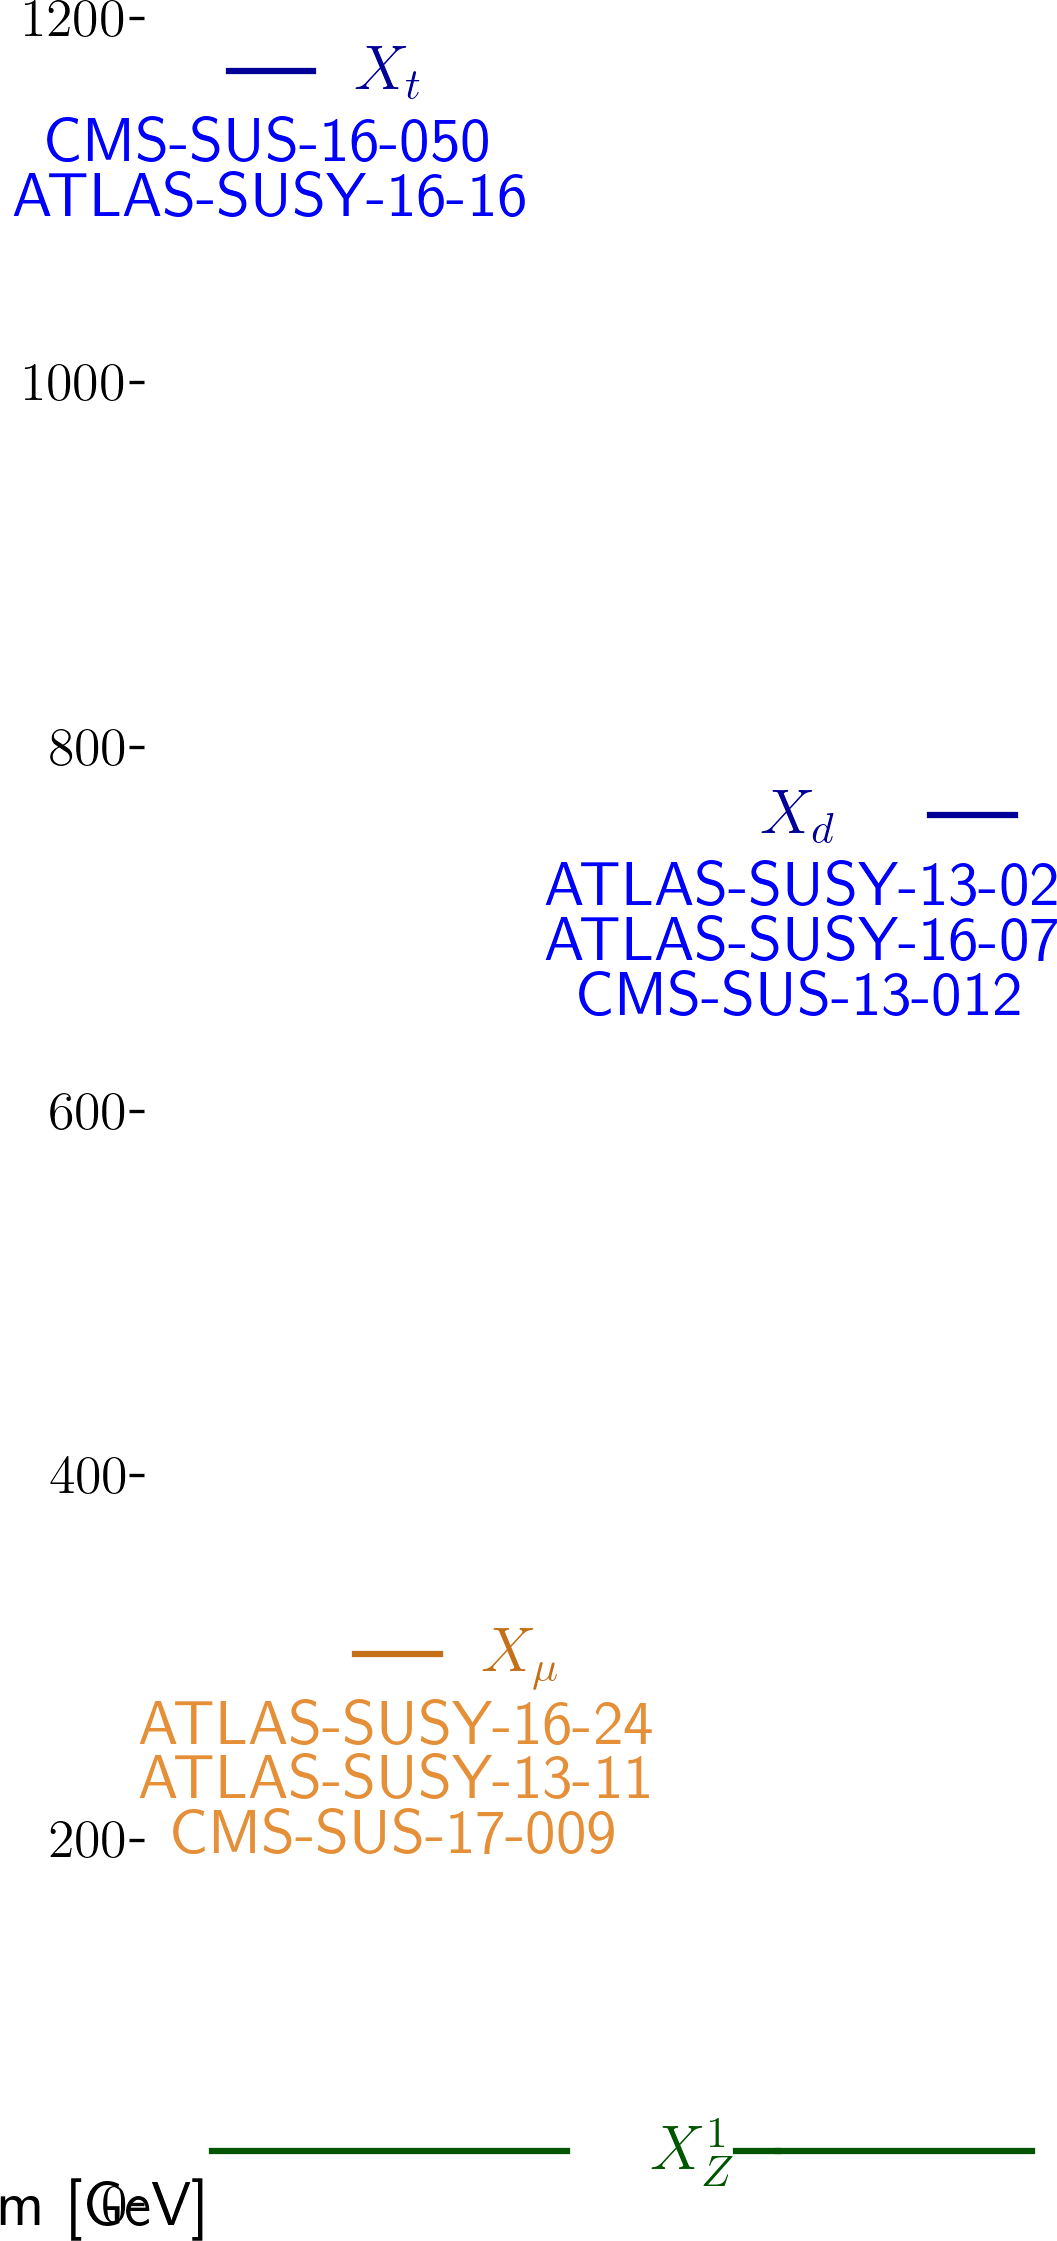
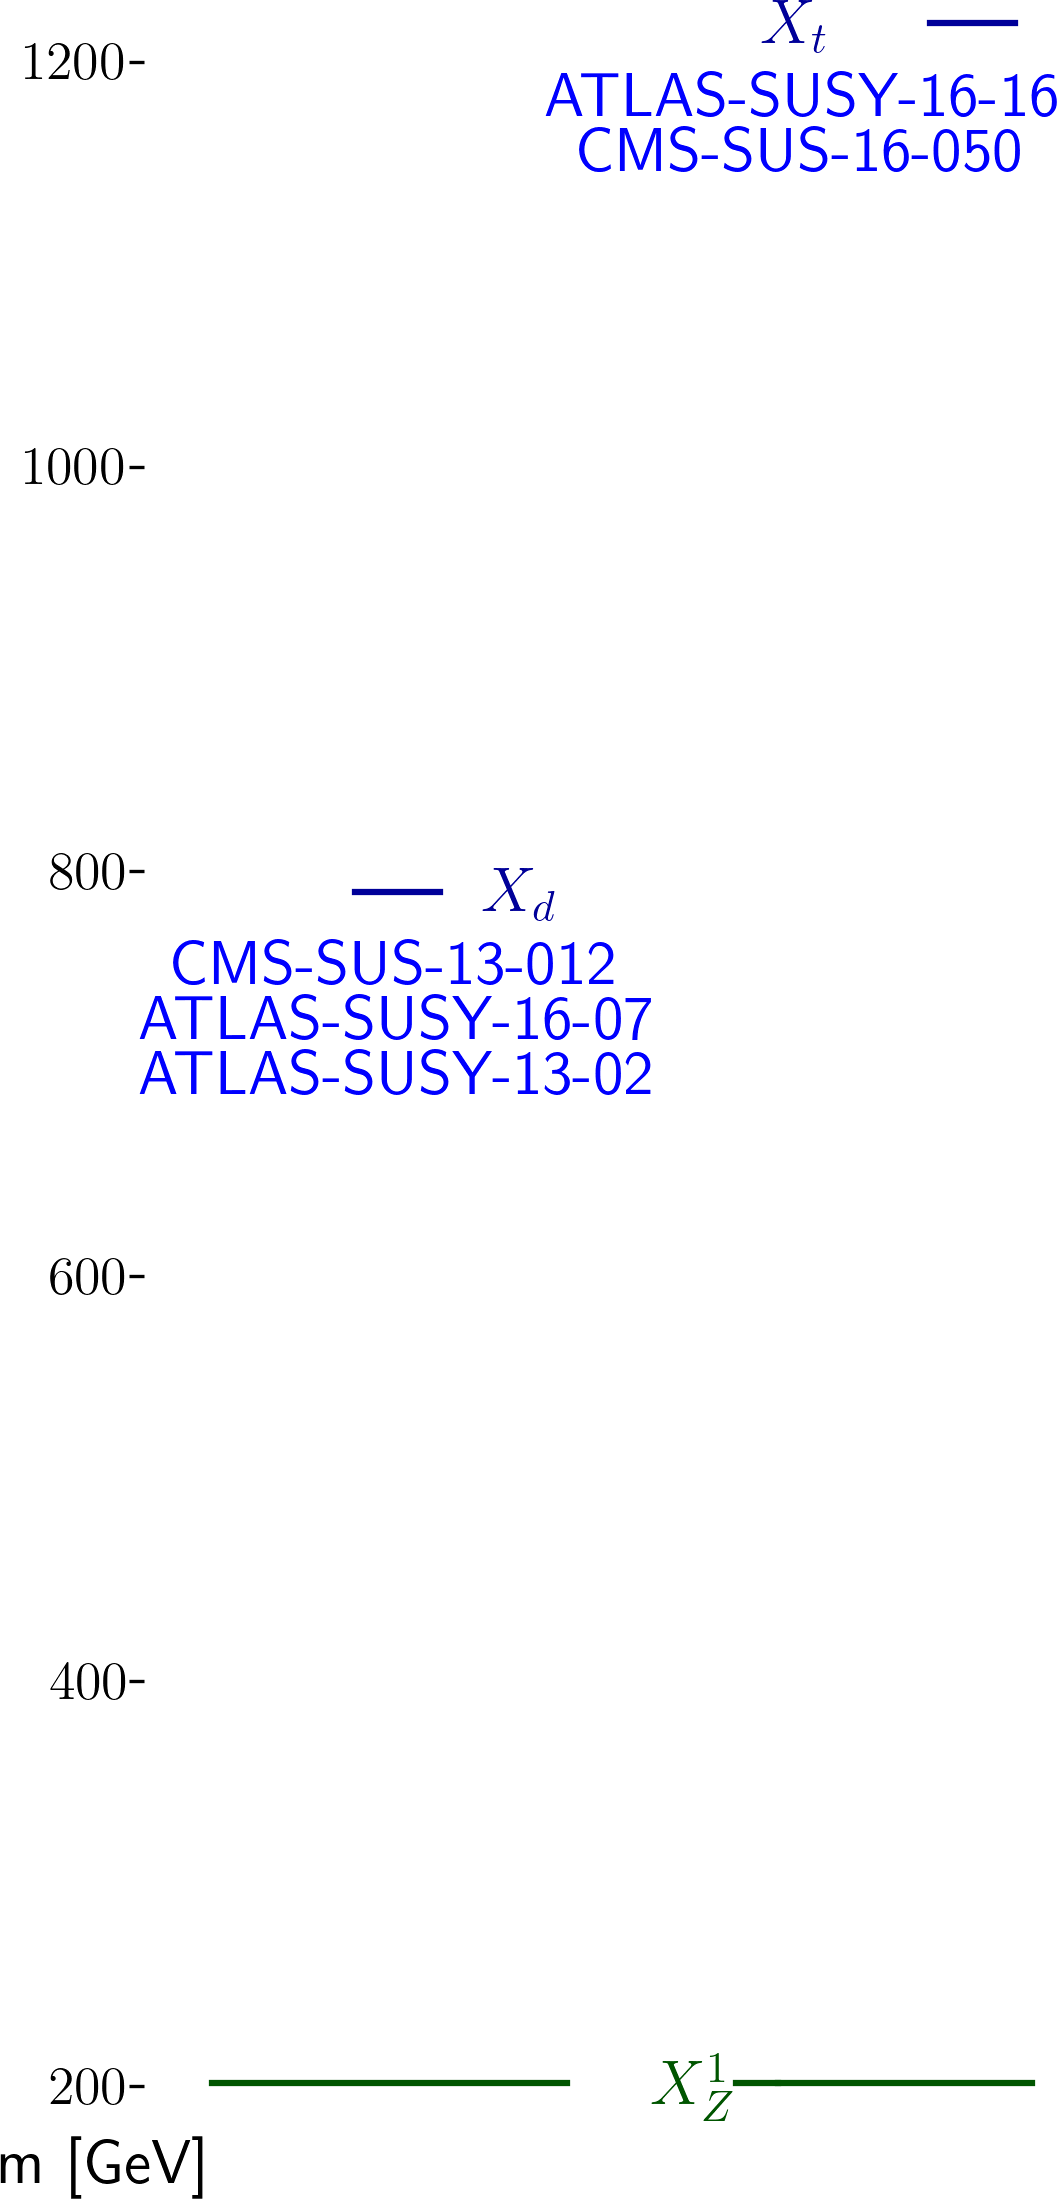
automated update by plotHiscore.py to /scratch-cbe/users/wolfgan.waltenberger/git/smodels.github.io/protomodels/2020_PioneerStudy/real5/

diff --git a/protomodels/2020_PioneerStudy/real5/index.html b/protomodels/2020_PioneerStudy/real5/index.html
@@ -1,33 +1,30 @@
 <html>
 <body>
 <center>
-<table><td><h1>Current best protomodel: K=6.76</h1><td><img height=60px src=https://smodels.github.io/pics/banner.png></table>
+<table><td><h1>Current best protomodel: K=7.26</h1><td><img height=60px src=https://smodels.github.io/pics/banner.png></table>
 </center>
-<b><a href=./hiscore.slha>ProtoModel</a> <a href=./pmodel.py>(dict)</a> produced with <a href=https://smodels.github.io/docs/Validation124>database v1.2.4</a>, combination strategy <a href=./matrix_aggressive.png>aggressive</a> in walker 10 step 322.</b> K plots for: <a href=./M1000022.png?13243724>X<sub>Z</sub><sup>1</sup></a>, <a href=./M1000006.png?13243724>X<sub>t</sub></a>, <a href=./M1000001.png?13243724>X<sub>d</sub></a>, <a href=./M1000013.png?13243724>X<sub>&mu;</sub></a>. HPD plots for: <a href=./llhd1000006.png?13243724>X<sub>t</sub></a>, <a href=./llhd1000001.png?13243724>X<sub>d</sub></a>, <a href=./llhd1000013.png?13243724>X<sub>&mu;</sub></a>. SSM plots for: <a href=./ssm_-1000006_1000006.png?13243724>(x&#772;<sub>t</sub>,X<sub>t</sub>)</a><br>
+<b><a href=./hiscore.slha>ProtoModel</a> <a href=./pmodel.py>(dict)</a> produced with <a href=https://smodels.github.io/docs/Validation124>database v1.2.4</a>, combination strategy <a href=./matrix_aggressive.png>aggressive</a> in walker 45 step 195.</b> K plots for: <a href=./M1000022.png?13647993>X<sub>Z</sub><sup>1</sup></a>, <a href=./M1000006.png?13647993>X<sub>t</sub></a>, <a href=./M1000001.png?13647993>X<sub>d</sub></a>. HPD plots for: <a href=./llhd1000006.png?13647993>X<sub>t</sub></a>, <a href=./llhd1000001.png?13647993>X<sub>d</sub></a>. SSM plots for: <a href=./ssm_-1000006_1000006.png?13647993>(x&#772;<sub>t</sub>,X<sub>t</sub>)</a><br>
 <table width=80%>
 <tr><td>
-<br><b>32 predictions available. Highest r values are:</b><br><ul>
-<li><a href=http://cms-results.web.cern.ch/cms-results/public-results/publications/SUS-19-006/index.html>CMS-SUS-19-006</a>:T2 r=1.30, r<sub>exp</sub>=1.11<br>
-<li><a href=http://cms-results.web.cern.ch/cms-results/public-results/publications/SUS-16-033/index.html>CMS-SUS-16-033</a>:T2 r=1.13, r<sub>exp</sub>=0.82<br>
-<li><a href=https://atlas.web.cern.ch/Atlas/GROUPS/PHYSICS/PAPERS/SUSY-2016-24/>ATLAS-SUSY-2016-24</a>:TSlepSlep r=1.02, r<sub>exp</sub>=N/A<br>
-<li><a href=http://cms-results.web.cern.ch/cms-results/public-results/publications/SUS-19-006/index.html>CMS-SUS-19-006</a>:T2tt r=0.94, r<sub>exp</sub>=0.93<br>
-<li><a href=http://cms-results.web.cern.ch/cms-results/public-results/publications/SUS-16-036/index.html>CMS-SUS-16-036</a>:T2 r=0.86, r<sub>exp</sub>=0.75<br>
+<br><b>18 predictions available. Highest r values are:</b><br><ul>
+<li><a href=http://cms-results.web.cern.ch/cms-results/public-results/publications/SUS-19-006/index.html>CMS-SUS-19-006</a>:T2 r=1.30, r<sub>exp</sub>=1.12<br>
+<li><a href=http://cms-results.web.cern.ch/cms-results/public-results/publications/SUS-19-006/index.html>CMS-SUS-19-006</a>:T2tt r=1.29, r<sub>exp</sub>=1.29<br>
+<li><a href=http://cms-results.web.cern.ch/cms-results/public-results/publications/SUS-16-033/index.html>CMS-SUS-16-033</a>:T2 r=1.16, r<sub>exp</sub>=0.83<br>
+<li><a href=http://cms-results.web.cern.ch/cms-results/public-results/publications/SUS-16-036/index.html>CMS-SUS-16-036</a>:T2 r=0.83, r<sub>exp</sub>=0.75<br>
+<li><a href=https://atlas.web.cern.ch/Atlas/GROUPS/PHYSICS/PAPERS/SUSY-2016-15/>ATLAS-SUSY-2016-15</a>:T2tt r=0.63, r<sub>exp</sub>=N/A<br>
 </ul>
 <td><br><b>K values without analyses: (contribution)</b><br>
 <ul>
-<li> <a href=https://atlas.web.cern.ch/Atlas/GROUPS/PHYSICS/PAPERS/SUSY-2013-11/>ATLAS-SUSY-2013-11</a>: 2.64 (10%)
-<li> <a href=http://cms-results.web.cern.ch/cms-results/public-results/publications/SUS-16-050/index.html>CMS-SUS-16-050</a>: 2.64 (10%)
-<li> <a href=https://cms-results.web.cern.ch/cms-results/public-results/publications/SUS-17-009/>CMS-SUS-17-009</a>: 2.64 (10%)
-<li> <a href=https://twiki.cern.ch/twiki/bin/view/CMSPublic/PhysicsResultsSUS13012>CMS-SUS-13-012</a>: 2.64 (10%)
-<li> <a href=https://atlas.web.cern.ch/Atlas/GROUPS/PHYSICS/PAPERS/SUSY-2013-02/>ATLAS-SUSY-2013-02</a>: 2.56 (10%)
-<li> <a href=https://atlas.web.cern.ch/Atlas/GROUPS/PHYSICS/PAPERS/SUSY-2016-24/>ATLAS-SUSY-2016-24</a>: 2.07 (12%)
-<li> <a href=https://atlas.web.cern.ch/Atlas/GROUPS/PHYSICS/PAPERS/SUSY-2016-16/>ATLAS-SUSY-2016-16</a>: 0.00 (17%)
-<li> <a href=https://atlas.web.cern.ch/Atlas/GROUPS/PHYSICS/PAPERS/SUSY-2016-07/>ATLAS-SUSY-2016-07</a>: -1.89 (21%)
-<td><img width=600px src=./texdoc.png?1606243724>
-<br><font size=-1>Last updated: Tue Nov 24 19:48:44 2020</font>
+<li> <a href=http://cms-results.web.cern.ch/cms-results/public-results/publications/SUS-16-050/index.html>CMS-SUS-16-050</a>: 3.33 (15%)
+<li> <a href=https://twiki.cern.ch/twiki/bin/view/CMSPublic/PhysicsResultsSUS13012>CMS-SUS-13-012</a>: 3.33 (15%)
+<li> <a href=https://atlas.web.cern.ch/Atlas/GROUPS/PHYSICS/PAPERS/SUSY-2013-02/>ATLAS-SUSY-2013-02</a>: 3.26 (15%)
+<li> <a href=https://atlas.web.cern.ch/Atlas/GROUPS/PHYSICS/PAPERS/SUSY-2016-16/>ATLAS-SUSY-2016-16</a>: 1.25 (23%)
+<li> <a href=https://atlas.web.cern.ch/Atlas/GROUPS/PHYSICS/PAPERS/SUSY-2016-07/>ATLAS-SUSY-2016-07</a>: -0.76 (31%)
+<td><img width=600px src=./texdoc.png?1606647993>
+<br><font size=-1>Last updated: Sun Nov 29 12:06:33 2020</font>
 </table><table style="width:80%">
-<td width=45%><img height=580px src=./ruler.png?1606243724><td width=55%><img height=380px src=./decays.png?1606243724>
-<font size=-3><iframe type="text/html" height="220px" width="100%s" frameborder="0" src="./rawnumbers.html?1606243724"></iframe></font>
+<td width=45%><img height=580px src=./ruler.png?1606647993><td width=55%><img height=380px src=./decays.png?1606647993>
+<font size=-3><iframe type="text/html" height="220px" width="100%s" frameborder="0" src="./rawnumbers.html?1606647993"></iframe></font>
 </table>
 </body>
 </html>

diff --git a/protomodels/2020_PioneerStudy/real5/rawnumbers.html b/protomodels/2020_PioneerStudy/real5/rawnumbers.html
@@ -2,11 +2,8 @@
 <tr><th>Analysis Name</th><th>Type</th><th>Dataset</th><th>Topos</th><th>Observed</th><th>Expected</th><th>Approx &sigma;</th><th>Particles</th>
 </tr>
 <tr><td><a href=https://atlas.web.cern.ch/Atlas/GROUPS/PHYSICS/PAPERS/SUSY-2013-02/>ATLAS-SUSY-2013-02</a></td><td>em</td> <td>SR6jtp</td><td>T2</td><td>6</td><td>4.9 +/- 1.6</td><td style="text-align:right">0.4 &sigma;</td><td style="text-align:right">X<sub>d</sub></td></tr>
-<tr><td><a href=https://atlas.web.cern.ch/Atlas/GROUPS/PHYSICS/PAPERS/SUSY-2013-11/>ATLAS-SUSY-2013-11</a></td><td>em</td> <td>Zjets</td><td>TSlepSlep</td><td>1</td><td>1.4 +/- 0.6</td><td style="text-align:right">-0.3 &sigma;</td><td style="text-align:right">X<sub>&mu;</sub></td></tr>
 <tr><td><a href=https://atlas.web.cern.ch/Atlas/GROUPS/PHYSICS/PAPERS/SUSY-2016-07/>ATLAS-SUSY-2016-07</a></td><td>em</td> <td>2j_Meff_1200</td><td>T2</td><td>611</td><td>526 +/- 31</td><td style="text-align:right">2.2 &sigma;</td><td style="text-align:right">X<sub>d</sub></td></tr>
 <tr><td><a href=https://atlas.web.cern.ch/Atlas/GROUPS/PHYSICS/PAPERS/SUSY-2016-16/>ATLAS-SUSY-2016-16</a></td><td>em</td> <td>tN_high</td><td>T2tt</td><td>8</td><td>3.8 +/- 1</td><td style="text-align:right">1.9 &sigma;</td><td style="text-align:right">X<sub>t</sub></td></tr>
-<tr><td><a href=https://atlas.web.cern.ch/Atlas/GROUPS/PHYSICS/PAPERS/SUSY-2016-24/>ATLAS-SUSY-2016-24</a></td><td>em</td> <td>SR2-SF-loose</td><td>TSmuSmu</td><td>153</td><td>133 +/- 22</td><td style="text-align:right">0.8 &sigma;</td><td style="text-align:right">X<sub>&mu;</sub></td></tr>
-<tr><td><a href=https://twiki.cern.ch/twiki/bin/view/CMSPublic/PhysicsResultsSUS13012>CMS-SUS-13-012</a></td><td>ul</td> <td>-</td><td>T2</td><td> 22.9 fb </td><td> 14.0 fb</td><td style="text-align:right">1.2 &sigma;</td><td style="text-align:right">X<sub>d</sub></td></tr>
+<tr><td><a href=https://twiki.cern.ch/twiki/bin/view/CMSPublic/PhysicsResultsSUS13012>CMS-SUS-13-012</a></td><td>ul</td> <td>-</td><td>T2</td><td> 24.9 fb </td><td> 15.0 fb</td><td style="text-align:right">1.3 &sigma;</td><td style="text-align:right">X<sub>d</sub></td></tr>
 <tr><td><a href=http://cms-results.web.cern.ch/cms-results/public-results/publications/SUS-16-050/index.html>CMS-SUS-16-050</a></td><td>ul</td> <td>-</td><td>T2tt</td><td> 4.4 fb </td><td> 2.4 fb</td><td style="text-align:right">1.6 &sigma;</td><td style="text-align:right">X<sub>t</sub></td></tr>
-<tr><td><a href=https://cms-results.web.cern.ch/cms-results/public-results/publications/SUS-17-009/>CMS-SUS-17-009</a></td><td>ul</td> <td>-</td><td>TSmuSmu</td><td> 5.8 fb </td><td> 3.9 fb</td><td style="text-align:right">1.0 &sigma;</td><td style="text-align:right">X<sub>&mu;</sub></td></tr>
 </table>

diff --git a/protomodels/2020_PioneerStudy/real5/pmodel.py b/protomodels/2020_PioneerStudy/real5/pmodel.py
@@ -1,1 +1,1 @@
-{'masses': {1000022: 19.125, 1000001: 752.361, 1000006: 1161.029, 1000013: 292.184}, 'ssmultipliers': {(1000022, 1000022): 73914948.679, (1000001, 1000001): 0.424, (-1000001, 1000001): 0.424, (-1000001, -1000001): 0.424, (1000001, 1000022): 0.44, (-1000001, 1000022): 0.44, (1000006, 1000006): 0.952, (-1000006, 1000006): 0.952, (-1000006, -1000006): 0.952, (1000006, 1000022): 0.952, (-1000006, 1000022): 0.952, (1000001, 1000006): 0.822, (-1000006, 1000001): 0.822, (-1000001, 1000006): 0.822, (-1000006, -1000001): 0.822, (1000013, 1000013): 0.989, (-1000013, 1000013): 0.989, (-1000013, -1000013): 0.989, (1000013, 1000022): 0.989, (-1000013, 1000022): 0.989, (1000001, 1000013): 0.989, (-1000013, 1000001): 0.989, (-1000001, 1000013): 0.989, (-1000013, -1000001): 0.989, (1000006, 1000013): 0.989, (-1000013, 1000006): 0.989, (-1000006, 1000013): 0.989, (-1000013, -1000006): 0.989}, 'decays': {1000022: {}, 1000001: {(1000022, 1): 1.0}, 1000006: {(1000022, 6): 1.0}, 1000013: {(1000022, 13): 1.0}}, 'timestamp': 'Tue Nov 24 19:48:27 2020', 'Z': 3.469, 'K': 6.761, 'walkerid': 10, 'step': 322, 'codever': '1.0', 'dbver': '1.2.4'}
+{'masses': {1000022: 191.415, 1000006: 1209.115, 1000001: 780.01}, 'ssmultipliers': {(1000022, 1000022): 0.0, (1000006, 1000006): 1.729, (-1000006, 1000006): 1.646, (-1000006, -1000006): 1.646, (1000006, 1000022): 1.646, (-1000006, 1000022): 1.646, (1000001, 1000001): 0.577, (-1000001, 1000001): 0.577, (-1000001, -1000001): 0.577, (1000001, 1000022): 0.0, (-1000001, 1000022): 0.0, (1000001, 1000006): 0.764, (-1000001, 1000006): 0.764, (-1000006, 1000001): 0.764, (-1000006, -1000001): 0.764}, 'decays': {1000022: {}, 1000006: {(1000022, 6): 1.0}, 1000001: {(1000022, 1): 1.0}}, 'timestamp': 'Sun Nov 29 12:06:24 2020', 'Z': 3.28, 'K': 7.262, 'walkerid': 45, 'step': 195, 'codever': '1.0', 'dbver': '1.2.4'}
